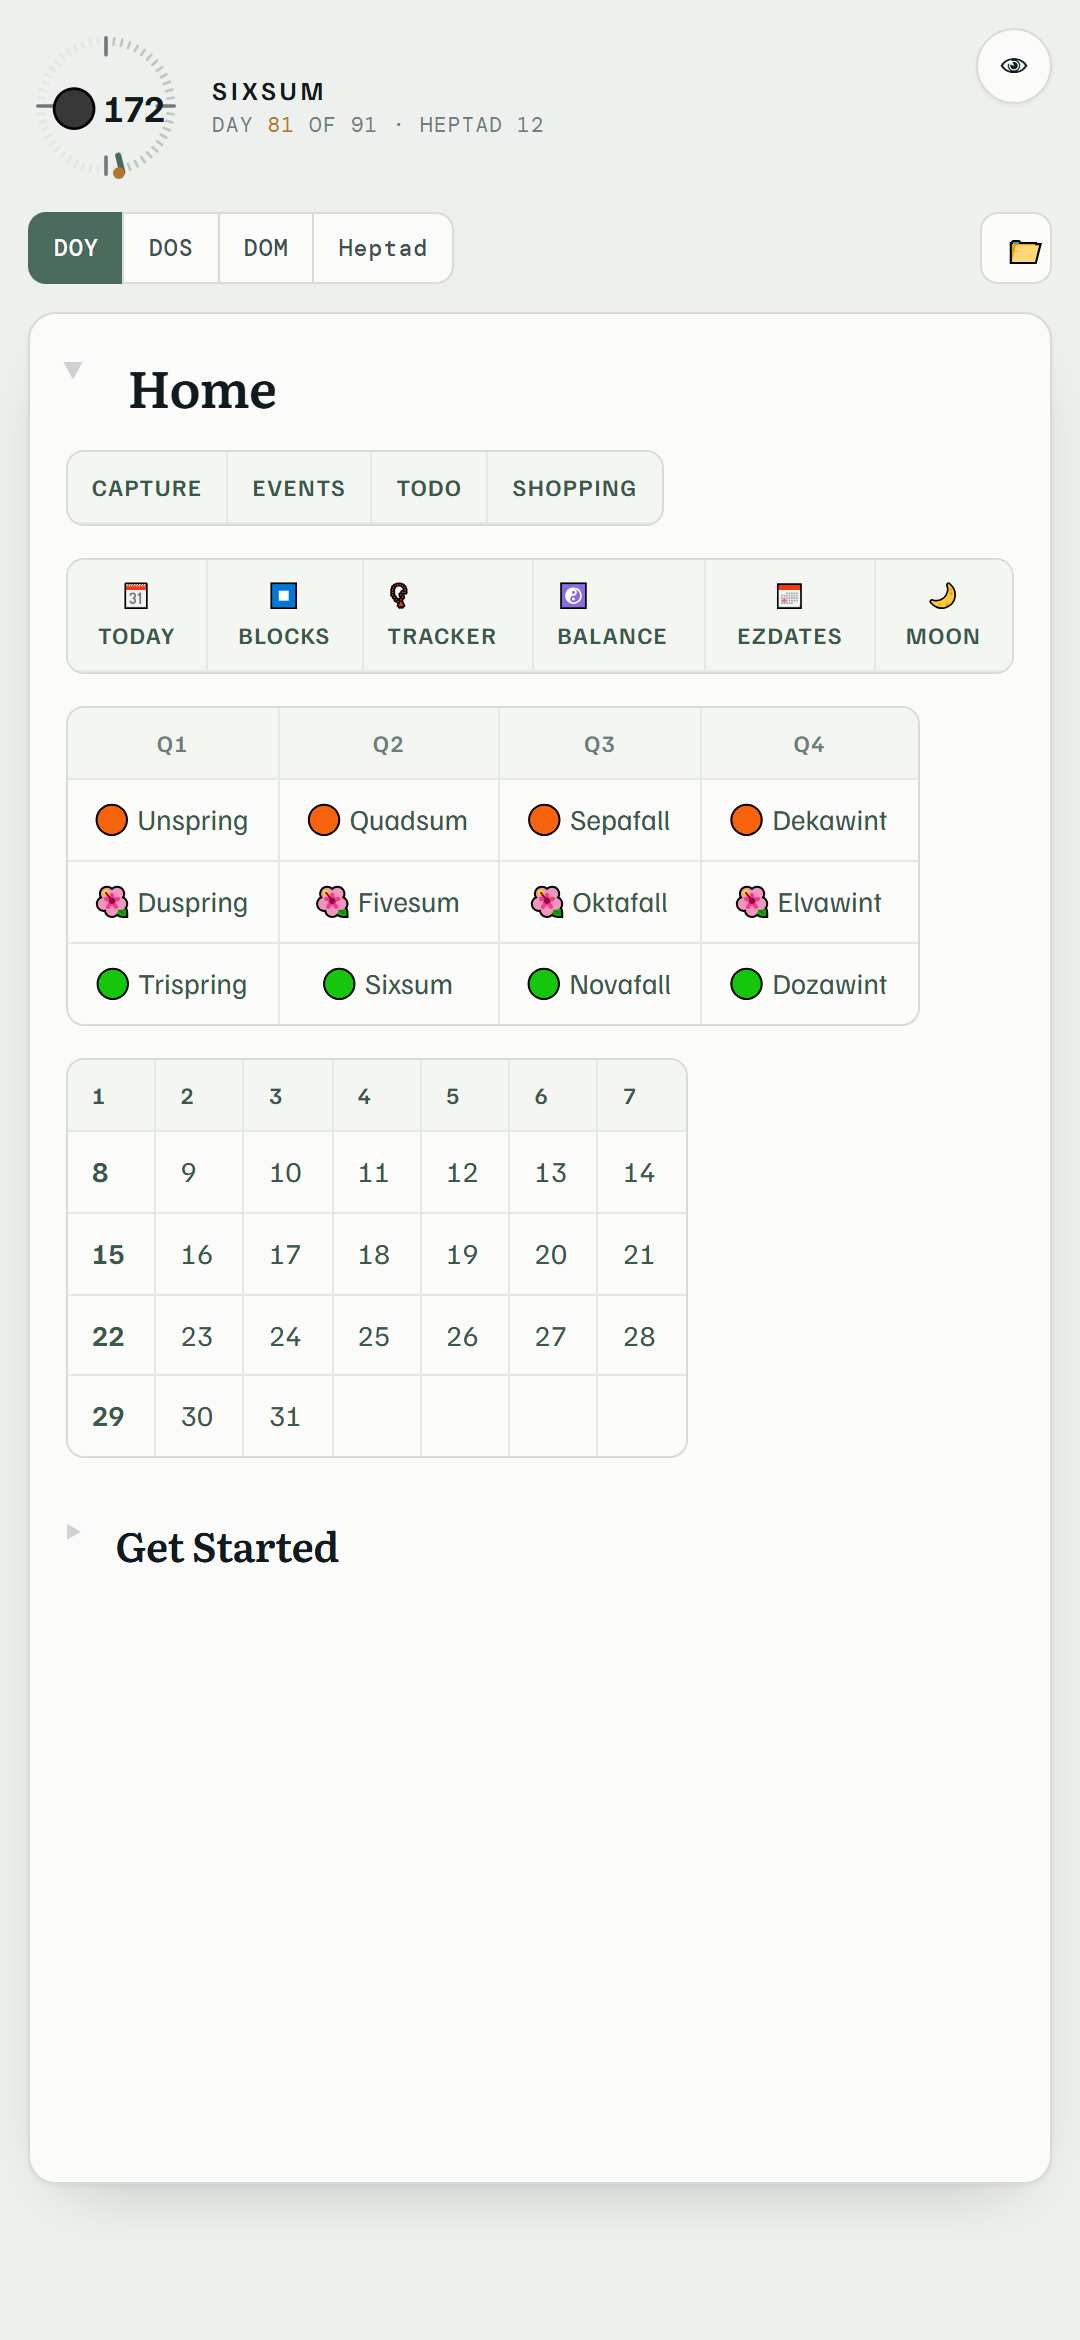
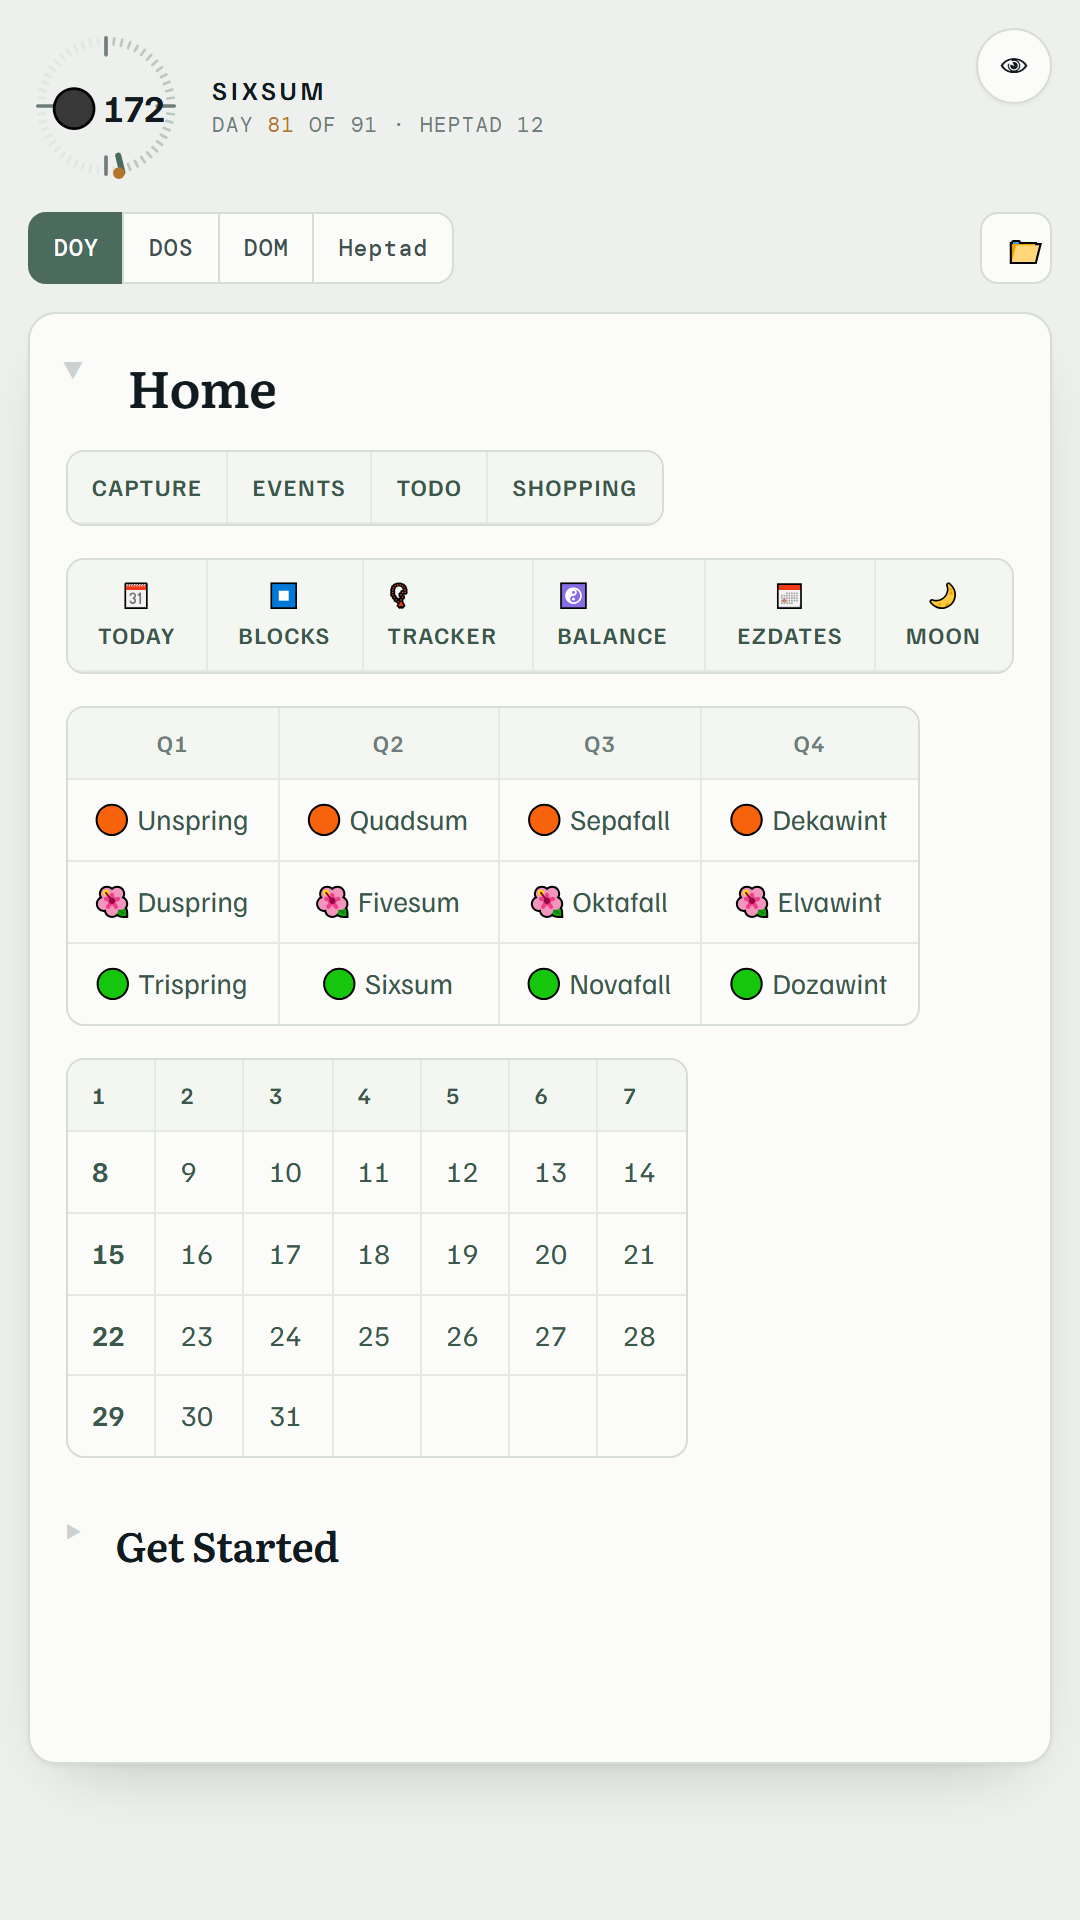
Item 7: privacy policy and store screenshots
Privacy policy published at /privacy.html, written from the client's own
statement: nothing collected, notes live on the device only, following a
link leaves the app for someone else's policy, and we hold no copy so we
cannot recover anything if the app is deleted. Contact e.afifon@gmail.com.

Store screenshots at 1080x1920, light and dark. The first set was
1080x2340, the true aspect of a modern phone, but Play caps phone
screenshots at 2:1 and that is 2.17:1, so it would have been rejected on
upload. Two shots meets Play's minimum; richer ones belong in device QA,
where a real handset replaces a headless browser that does not reliably
capture changes made after page load.

diff --git a/privacy.html b/privacy.html
@@ -1,0 +1,103 @@
+<!DOCTYPE html>
+<html lang="en">
+<head>
+<meta charset="UTF-8">
+<meta name="viewport" content="width=device-width, initial-scale=1">
+<title>Rythos — Privacy Policy</title>
+<meta name="description" content="Privacy policy for Rythos. The app collects no data and transmits nothing to any server.">
+<meta name="theme-color" content="#EDF0EC" media="(prefers-color-scheme: light)">
+<meta name="theme-color" content="#101A1F" media="(prefers-color-scheme: dark)">
+<style>
+  @font-face { font-family:'Familjen Grotesk'; src:url('vendor/fonts/familjen-grotesk-var.woff2') format('woff2');
+               font-weight:400 700; font-display:swap; }
+  @font-face { font-family:'Literata'; src:url('vendor/fonts/literata-var.woff2') format('woff2');
+               font-weight:400 700; font-display:swap; }
+  @font-face { font-family:'DM Mono'; src:url('vendor/fonts/dm-mono-400.woff2') format('woff2');
+               font-weight:400; font-display:swap; }
+
+  :root{
+    --paper:#EDF0EC; --sheet:#FBFCFA; --ink:#101A1F; --ink-2:#41504F; --ink-3:#6E7D79;
+    --rule:#D6DCD6; --sage:#4A6B5D; --sage-2:#3B584C;
+    --shadow:0 1px 2px rgba(16,26,31,.05),0 14px 34px -20px rgba(16,26,31,.30);
+  }
+  @media (prefers-color-scheme:dark){ :root:not([data-theme="light"]){
+    --paper:#0D1417; --sheet:#141D21; --ink:#E6EDE9; --ink-2:#A5B3AE; --ink-3:#7B8B86;
+    --rule:#26343A; --sage:#7FB49C; --sage-2:#96C6B0;
+    --shadow:0 1px 2px rgba(0,0,0,.34),0 14px 34px -20px rgba(0,0,0,.66);
+  }}
+
+  *{box-sizing:border-box}
+  body{margin:0;background:var(--paper);color:var(--ink);
+       font-family:'Familjen Grotesk',system-ui,sans-serif;font-size:16px;line-height:1.65;
+       -webkit-font-smoothing:antialiased}
+  .wrap{max-width:720px;margin:0 auto;padding:clamp(28px,6vw,68px) clamp(20px,5vw,44px) 88px}
+
+  .eyebrow{font-family:'DM Mono',monospace;font-size:11.5px;letter-spacing:.17em;
+           text-transform:uppercase;color:var(--sage-2);margin:0 0 14px}
+  h1{font-family:'Literata',Georgia,serif;font-weight:600;font-size:clamp(1.8rem,5vw,2.4rem);
+     line-height:1.15;letter-spacing:-.014em;margin:0 0 12px}
+  .updated{font-family:'DM Mono',monospace;font-size:11.5px;color:var(--ink-3);
+           letter-spacing:.05em;margin:0 0 34px}
+
+  .headline{background:var(--sheet);border:1px solid var(--rule);border-radius:12px;
+            padding:22px 24px;margin:0 0 34px;box-shadow:var(--shadow)}
+  .headline p{margin:0;font-size:1.06rem;color:var(--ink)}
+
+  h2{font-family:'Literata',Georgia,serif;font-weight:600;font-size:1.2rem;
+     margin:38px 0 10px;padding-top:16px;border-top:1px solid var(--rule)}
+  p{margin:0 0 .9em;color:var(--ink-2)}
+  p strong,li strong{color:var(--ink);font-weight:600}
+  ul{padding-left:0;list-style:none;margin:0 0 1em}
+  li{position:relative;padding-left:20px;margin:.5em 0;color:var(--ink-2)}
+  li::before{content:"";position:absolute;left:2px;top:.68em;width:6px;height:6px;
+             background:var(--sage);border-radius:50%}
+  a{color:var(--sage-2)}
+  .foot{margin-top:52px;padding-top:18px;border-top:1px solid var(--rule);
+        font-family:'DM Mono',monospace;font-size:12px;color:var(--ink-3);line-height:1.7}
+</style>
+</head>
+<body>
+<div class="wrap">
+
+<p class="eyebrow">Rythos</p>
+<h1>Privacy Policy</h1>
+<p class="updated">Last updated 5 September 2026</p>
+
+<div class="headline">
+  <p><strong>Rythos collects no personal data.</strong> There are no accounts, no analytics and no tracking. Everything you write stays on your own device, and the app sends nothing to any server we control &mdash; because there is no such server.</p>
+</div>
+
+<h2>What the app stores, and where</h2>
+<p>Your notes, folders, photos, settings and calendar preferences are saved in your device&rsquo;s own browser storage. They are readable only by the app, on that device.</p>
+<ul>
+  <li><strong>We never receive this content.</strong> It is not uploaded, backed up or synchronised anywhere.</li>
+  <li><strong>Nobody else can see it</strong> unless you export it and share the file yourself.</li>
+  <li><strong>Deleting the app, or clearing its storage, deletes the content permanently.</strong> Because we hold no copy, we cannot recover it for you. Use <em>Export All</em> to keep your own backup.</li>
+</ul>
+
+<h2>What we collect</h2>
+<p>Nothing. Specifically, Rythos does not collect, store or transmit your name, email address, location, contacts, device identifiers, advertising identifiers, usage analytics or crash reports.</p>
+
+<h2>Permissions</h2>
+<p>Rythos asks for no device permissions. If you add a photo to a note, your device shows its own file picker; the app only receives the single image you choose, and that image is stored locally in the note like any other content.</p>
+
+<h2>Links that leave the app</h2>
+<p>Notes can contain links, and the app ships with a small set of shortcuts to common apps and websites. <strong>Following any of these takes you out of Rythos.</strong> Whatever you open then belongs to that company and is governed by its privacy policy, not this one. We have no involvement in, and no visibility of, what happens after you leave.</p>
+
+<h2>Children</h2>
+<p>Rythos is a general-purpose notebook and calendar. It is not directed at children, and because it collects no data at all, it collects nothing from children either.</p>
+
+<h2>Changes to this policy</h2>
+<p>If the app ever begins handling data differently, this policy will be updated before that change is released, and the date above will change with it.</p>
+
+<h2>Contact</h2>
+<p>Questions about privacy in Rythos can be sent to <a href="mailto:e.afifon@gmail.com">e.afifon@gmail.com</a>.</p>
+
+<p class="foot">
+  Rythos &nbsp;&middot;&nbsp; privacy policy &nbsp;&middot;&nbsp; 5 September 2026<br />
+  <a href="./">Return to the app</a>
+</p>
+
+</div>
+</body>
+</html>
